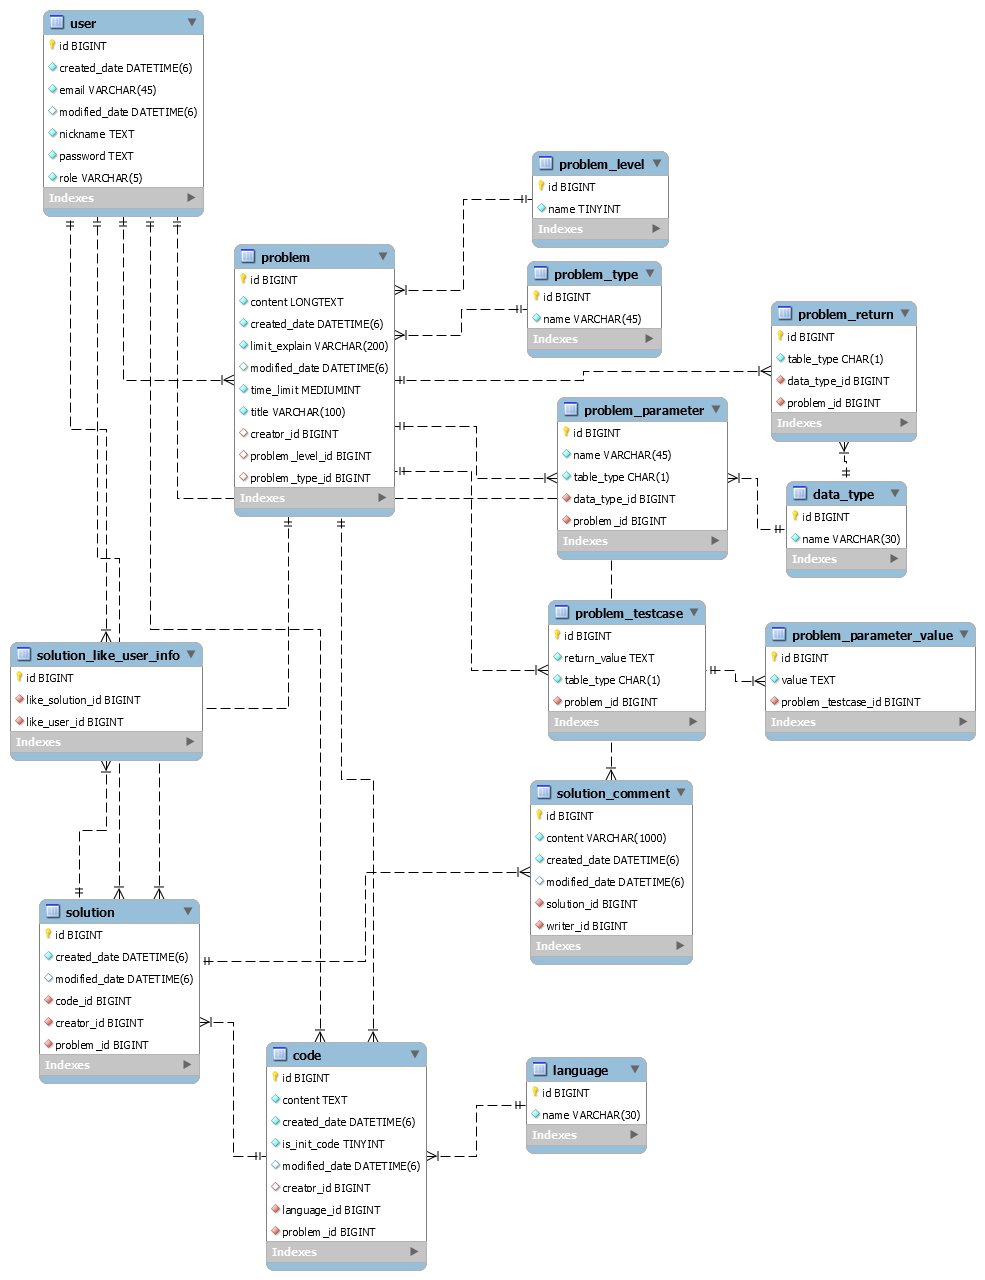
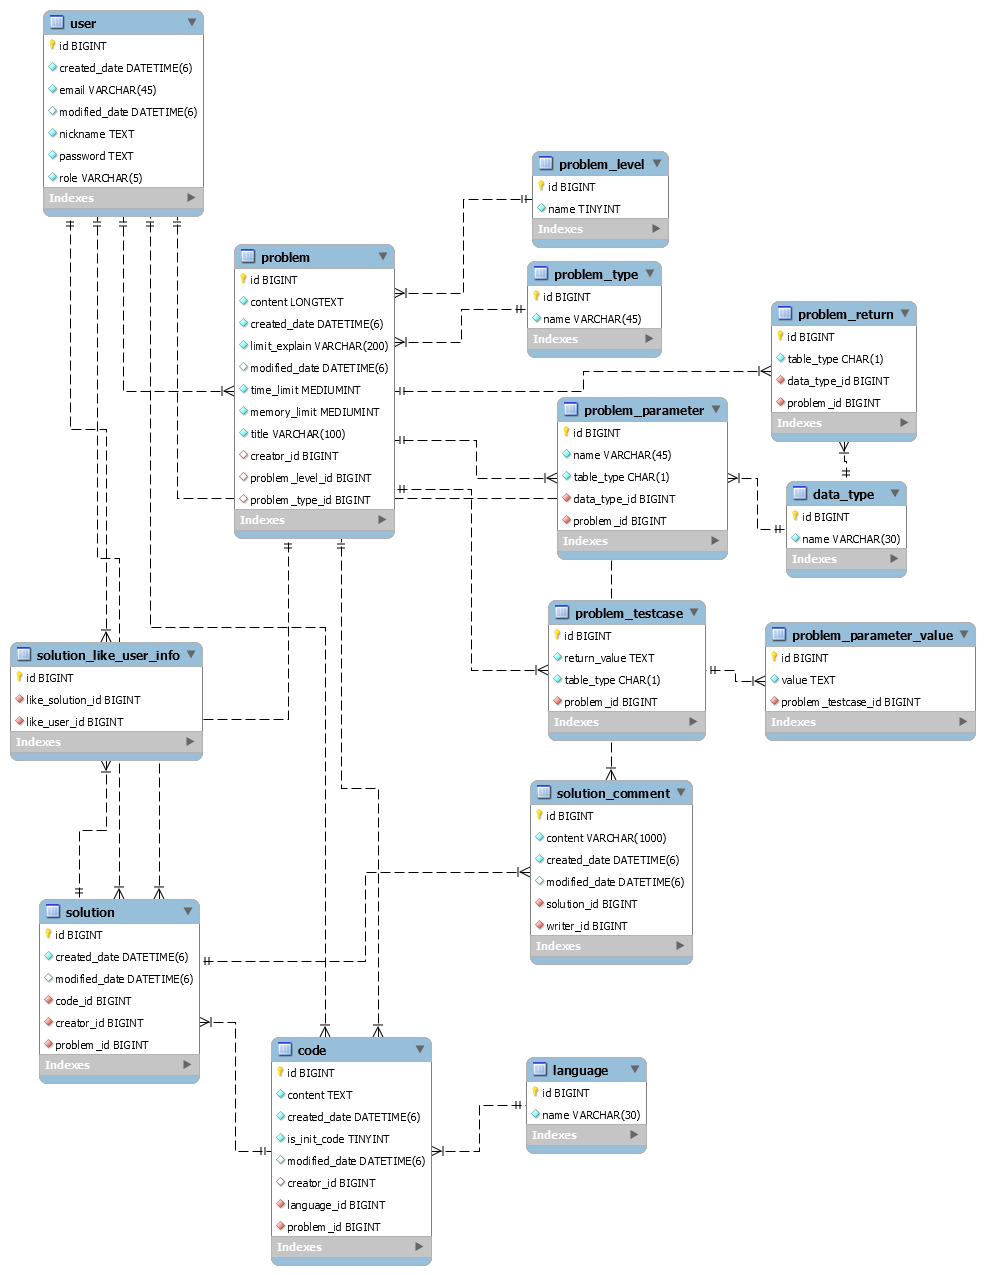
Update: README.md - 메모리 제한 기능 설명 추가

diff --git a/README.md b/README.md
@@ -8,7 +8,7 @@ http://ec2-13-124-43-63.ap-northeast-2.compute.amazonaws.com/
 |내용|설명|
 |:---:|:---:|
 |프로젝트 이름|Code Expert|
-|프로젝트 기간|2020-06-16 ~ 2020-08-20|
+|프로젝트 기간|2020-06-16 ~ 2020-08-24|
 
 ## 기술 스택
 |내용|설명|
@@ -25,7 +25,7 @@ http://ec2-13-124-43-63.ap-northeast-2.compute.amazonaws.com/
 | 문제 출제, 수정, 삭제 | 출제자가 문제, 사진, 테스트케이스 , 입출력 예시, 제한 사항 추가 |
 | 문제 목록 표시 | 유형 별 문제, 전체 문제 표시, 해결한 문제는 체크 표시, 해결한 사람들이 몇 명인지 표시 |
 | 문제 풀기 | 문제를 보고 코드 작성 및 채점 |
-| 문제 채점 | 입출력 예시 케이스, 테스트 케이스, 제한 시간을 모두 만족하면 통과 처리, 채점은 서버 내 컴파일러 사용 |
+| 문제 채점 | 입출력 예시 케이스, 테스트 케이스, 제한 시간, 메모리 제한을 모두 만족하면 통과 처리, 채점은 서버 내 컴파일러 사용 |
 | 다른 사람의 풀이 | 다른 사람이 푼 코드 목록을 볼 수 있고 코드마다 댓글 표시. 좋아요 수 표시 |
 
 ## 디자인 설계
@@ -118,6 +118,7 @@ http://ec2-13-124-43-63.ap-northeast-2.compute.amazonaws.com/
 | content | 문제 내용 |
 | limit_explain | 제한 사항 설명 |
 | time_limit | 시간 제한(ms) |
+| memory_limit | 메모리 제한(MB) |
 | created_date | 생성 날짜 |
 | modified_date | 수정 날짜 |
 | problem_level_id(fk) | 문제 난이도 아이디(problem_level) |
